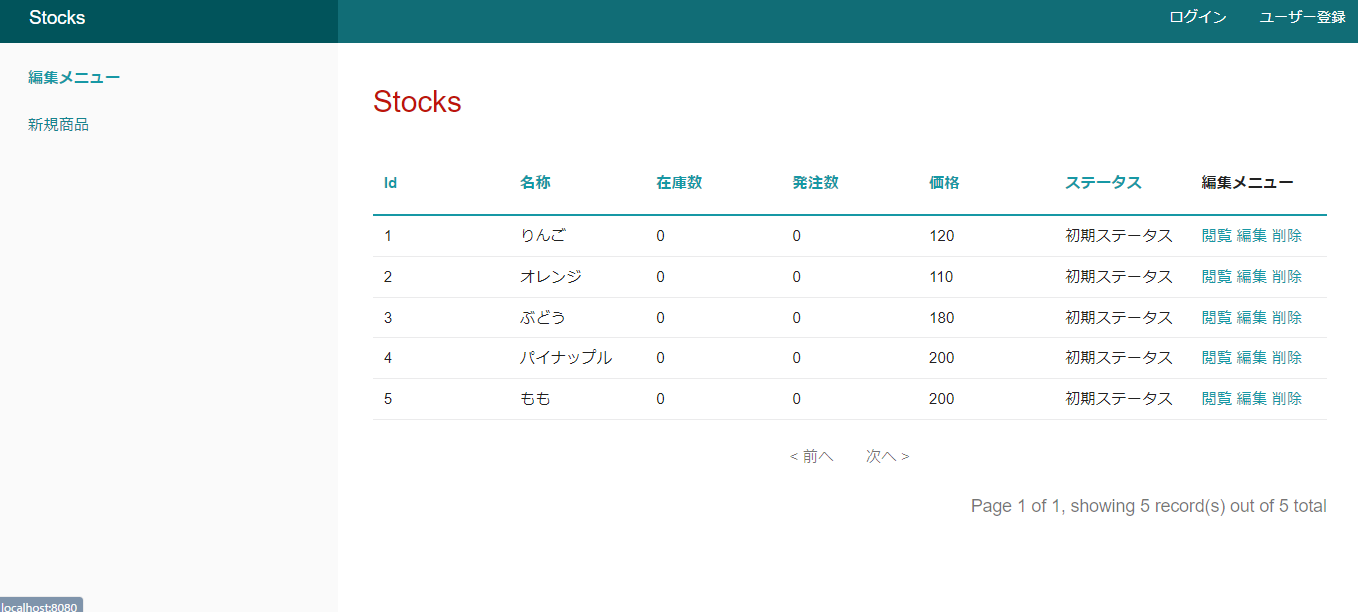
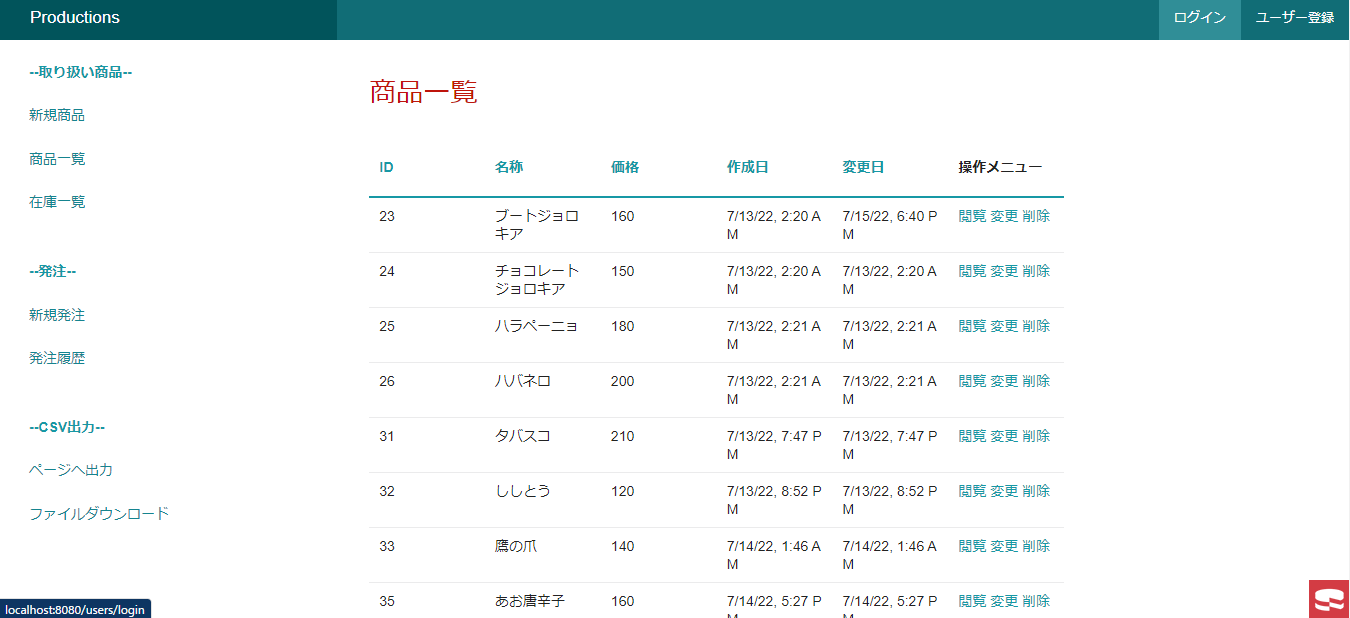
lesson14 33th  commit
changed readme.md and pic file

diff --git a/app/README.md b/app/README.md
@@ -1,18 +1,48 @@
 # TOPページ  
-初期状態：stocksテーブルの一覧が表示されている  
-ボタン表示：新規商品、閲覧、編集、削除、ユーザー登録、ログイン  
-ユーザー権限：在庫発注社員、在庫発注管理者、在庫受注社員  
+初期状態：商品一覧テーブルの一覧が表示されている  
+
+取扱商品(サイドバー)：新規商品、商品一覧、在庫一覧  
+　発注　(サイドバー)：新規発注、発注履歴  
+CSV出力 (サイドバー)：ページへ出力、ファイルダウンロード  
+
+図1：トップページ
 ![top](pic/top.png)
-# 発注機能  
-発注数のみ編集可能  
-ステータスが後述の通りに遷移  
-ステータスが最後の発注受け取り済みになったときに  
-発注数が在庫数に加算されて発注数が0にリセットされる  
-![edit](pic/edit.png)
-## ステータス遷移
-編集を行うことによって下図の順番で推移  
-ログイン中のユーザーを判別して遷移先を自動で変更（ユーザー自身は選択不可）  
+
+# 取扱商品
+取り扱い中の商品を管理するメニュー  
+新規商品の登録や取扱商品の一覧表示を行える
+### 新規商品
+商品を新しく登録することができる
+### 商品一覧
+取り扱い中の商品の名称と価格を一覧表示できる
+### 在庫一覧
+取り扱い中の商品の名称と在庫数を一覧表示できる
   
-作成時のステータスは初期ステータス  
-2巡目以降は初期ステータスが存在せず、発注受け取り済みから始まる  
-![ステータス画像](pic/status_user.png)  
+  
+# 発注  
+新規発注、発注履歴、ステータス変更によって発注の進捗管理ができる  
+またユーザー権限により行える発注操作に制限がある
+
+### 新規発注
+新規発注ボタンにより発注を行うことができる  
+取り扱い商品の中から発注する選択することができる。
+
+### 発注履歴
+過去の発注履歴を表示することができる  
+また発注履歴の変更からステータス変更に進むことができる  
+ステータス変更を行うことによって下図の順番でステータスが推移する  
+![ステータス画像](pic/status.png)  
+
+ステータスが前述の通りに遷移し、最後の発注受け取り済みになったときに発注数が在庫数に加算される  
+各ステータスの変更権限は後述する  
+
+
+### ユーザー権限
+各ユーザーに与えられた権限によって下図の通り行える操作が制限されている  
+![ユーザー権限](pic/authority_all.png)
+
+# CSV出力
+### ページへ出力
+CSV形式で在庫一覧をブラウザ画面に出力することができる
+### ファイルダウンロード
+csv形式のファイルをダウンzロードすることができる
